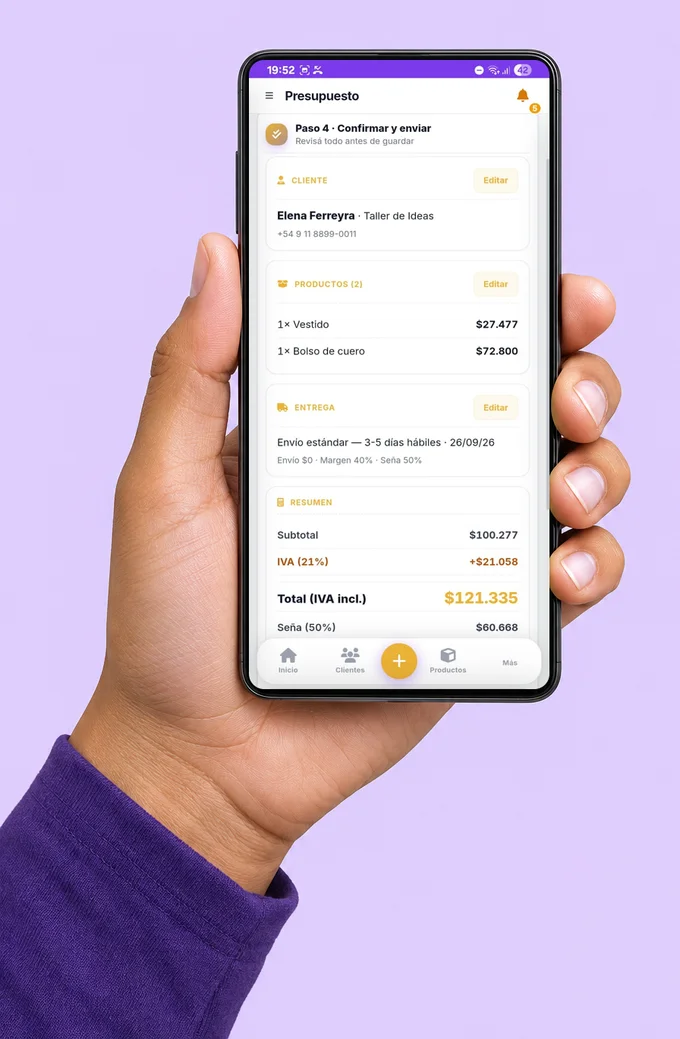
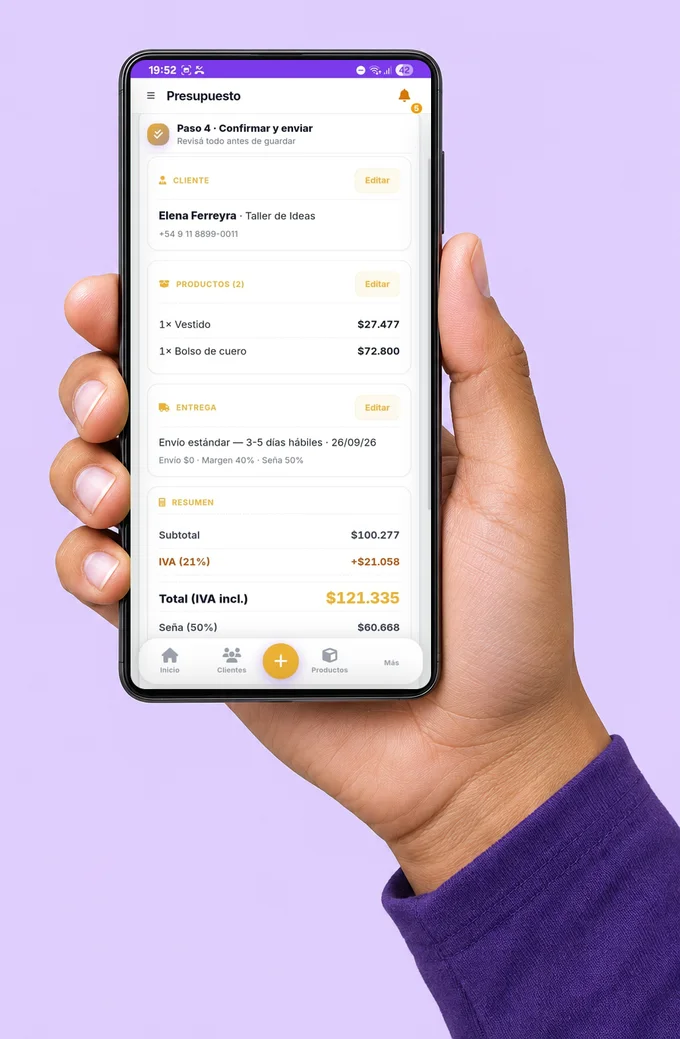
Landing: manos en el mismo sentido, cuadros alineados y hero al tono del panel
- Las tres fotos del celu van con la mano derecha: se saco el espejado
  de la del medio en el script de montaje.
- El script pasa a .cjs porque el package.json declara "type": "module".
- El panel de las fotos y la nota de instalacion van los dos a 1132px,
  el ancho util del wrap, asi quedan alineados. Las capturas crecen de
  325 a 357px sin upscalear (nativo 680).
- El hero toma el mismo lavanda del panel (#DECDFC, antes #F1EBFD).
  Re-auditado: 0 fallos AA; el sello del demo pasa a #574A6B.

diff --git a/index.html b/index.html
@@ -167,7 +167,7 @@ a{color:inherit;text-decoration:none}
 }
 
 /* HERO */
-.hero{position:relative;background:#F1EBFD;color:#221433;padding:60px 0 72px;overflow:hidden;border-bottom:1px solid #E9E1F5}
+.hero{position:relative;background:#DECDFC;color:#221433;padding:60px 0 72px;overflow:hidden;border-bottom:1px solid #E9E1F5}
 .hero-grid{position:relative;z-index:1;display:grid;grid-template-columns:1.1fr .9fr;gap:60px;align-items:center}
 /* min-width:0 permite que las columnas se encojan por debajo de su contenido.
    Sin esto, el mockup (tabla nowrap + sidebar 196px) fuerza ~700px de ancho y
@@ -209,7 +209,7 @@ a{color:inherit;text-decoration:none}
 .hero-ctas{display:flex;gap:14px;flex-wrap:wrap;margin-bottom:16px;align-items:flex-end}
 .hero-cta-btn{width:200px;justify-content:center}
 .hero-demo-group{display:flex;flex-direction:column;align-items:center;gap:5px}
-.hero-demo-tag{font-size:11px;color:#6E6383;font-weight:600;margin:0;font-style:italic;letter-spacing:.2px}
+.hero-demo-tag{font-size:11px;color:#574A6B;font-weight:600;margin:0;font-style:italic;letter-spacing:.2px}
 .hero-trust{display:flex;align-items:center;gap:18px;font-size:13px;color:#574A6B;flex-wrap:wrap;margin-top:4px}
 .hero-trust i{color:#0B7D59}
 /* Entre 1024 y 1180 la columna del hero se angosta: achicamos un punto
@@ -560,8 +560,8 @@ button.adentro-frame:focus-visible{outline:2px solid #E2D2FF;outline-offset:3px}
 /* Instalacion PWA — nota fluida, no steps. Conversacional, con las
    palabras clave marcadas para que "salten" sin ruptura tipografica.
    El PWA-chip inline sirve de anclaje conceptual sin robar peso. */
-.install-note{margin:26px auto 0;max-width:720px;padding:26px 30px;background:#EFE7FE;border:1px solid #CFC2E8;border-radius:18px;text-align:center;font-family:'Figtree',sans-serif}
-.install-note p{color:#4A3A63;font-size:16.5px;line-height:1.6;margin:0;letter-spacing:-.01em}
+.install-note{margin:26px auto 0;max-width:1132px;padding:26px 30px;background:#EFE7FE;border:1px solid #CFC2E8;border-radius:24px;text-align:center;font-family:'Figtree',sans-serif}
+.install-note p{color:#4A3A63;font-size:16.5px;line-height:1.6;margin:0 auto;max-width:720px;letter-spacing:-.01em}
 .install-note p b{color:#221433;font-weight:700}
 .install-note p em{font-style:normal;color:#4718AE;font-weight:700}
 @media(max-width:640px){
@@ -580,7 +580,7 @@ button.adentro-frame:focus-visible{outline:2px solid #E2D2FF;outline-offset:3px}
    asi que se leen como una sola escena y el borde
    de abajo corta las mangas.
    ═════════════════════════════════════════════ */
-.bolsillo-stage{background:#DECDFC;border-radius:32px;max-width:1040px;margin:36px auto 0;padding:30px 20px 0;overflow:hidden}
+.bolsillo-stage{background:#DECDFC;border-radius:32px;max-width:1132px;margin:36px auto 0;padding:30px 20px 0;overflow:hidden}
 .bolsillo-stage .bolsillo-grid{margin-top:0!important;max-width:none;gap:10px;align-items:end}
 .bolsillo-stage .bolsillo-shot{flex-direction:column-reverse}
 .bolsillo-stage .bolsillo-cap{color:#4718AE;padding:0 6px 16px;max-width:260px}

diff --git a/HANDOFF_LANDING_NOV2026.md b/HANDOFF_LANDING_NOV2026.md
@@ -74,10 +74,10 @@ La sección "La misma app, desde el celu" usa **fotos reales** de una mano soste
 - Para rehacerlas: reemplazar `mobile-analisis.png`, `mobile-pedido.png`, `mobile-logistica.png` (540×1170) y correr:
 
 ```bash
-node scripts/montar-celus.js
+node scripts/montar-celus.cjs
 ```
 
-El script recorta la foto, detecta el rectángulo verde, mete la captura con esquinas redondeadas y exporta las tres `.webp`. La del medio sale espejada para que las manos no se vean clonadas.
+El script recorta la foto, detecta el rectángulo verde, mete la captura con esquinas redondeadas y exporta las tres `.webp`. Las tres van en el mismo sentido (mano derecha): el espejado del medio se sacÃ³ el 16/11.
 
 El panel usa `#DECDFC`, **el mismo fondo de las fotos**, por eso no se ve el borde de las imágenes. Si se recomprimen, verificar que el fondo siga dando `#DECDFC`.
 
